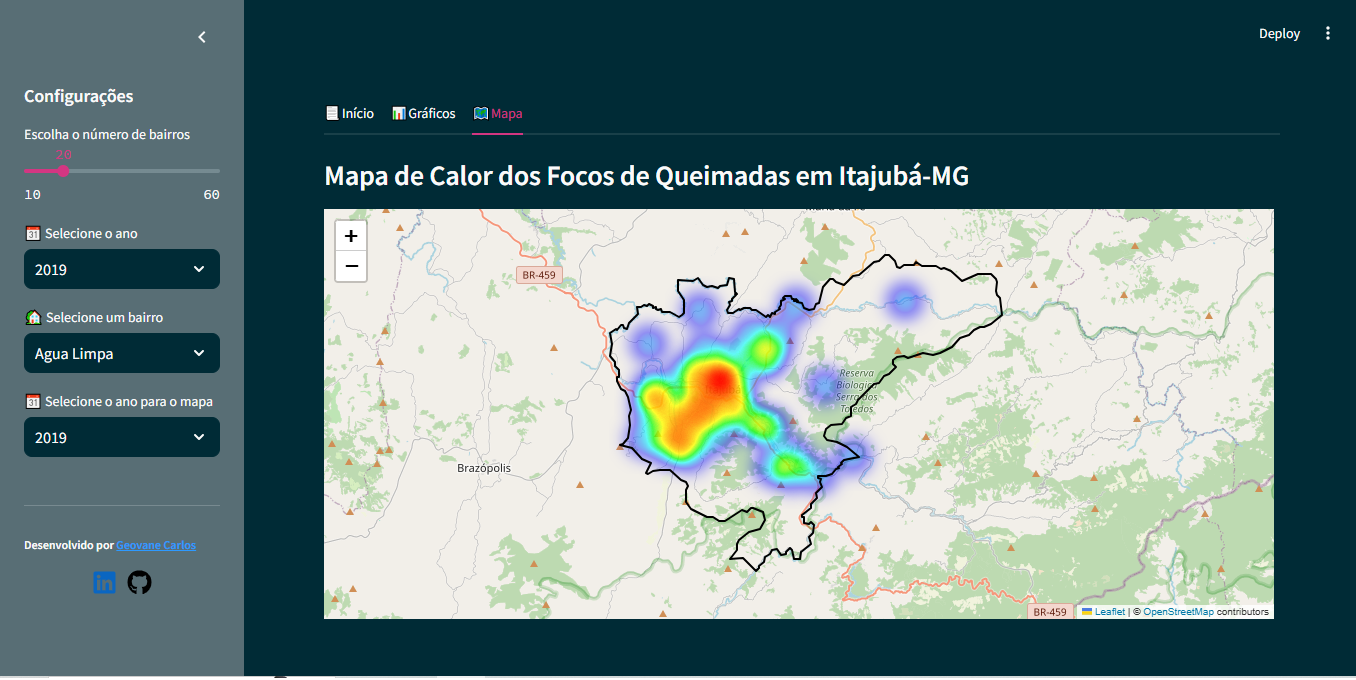
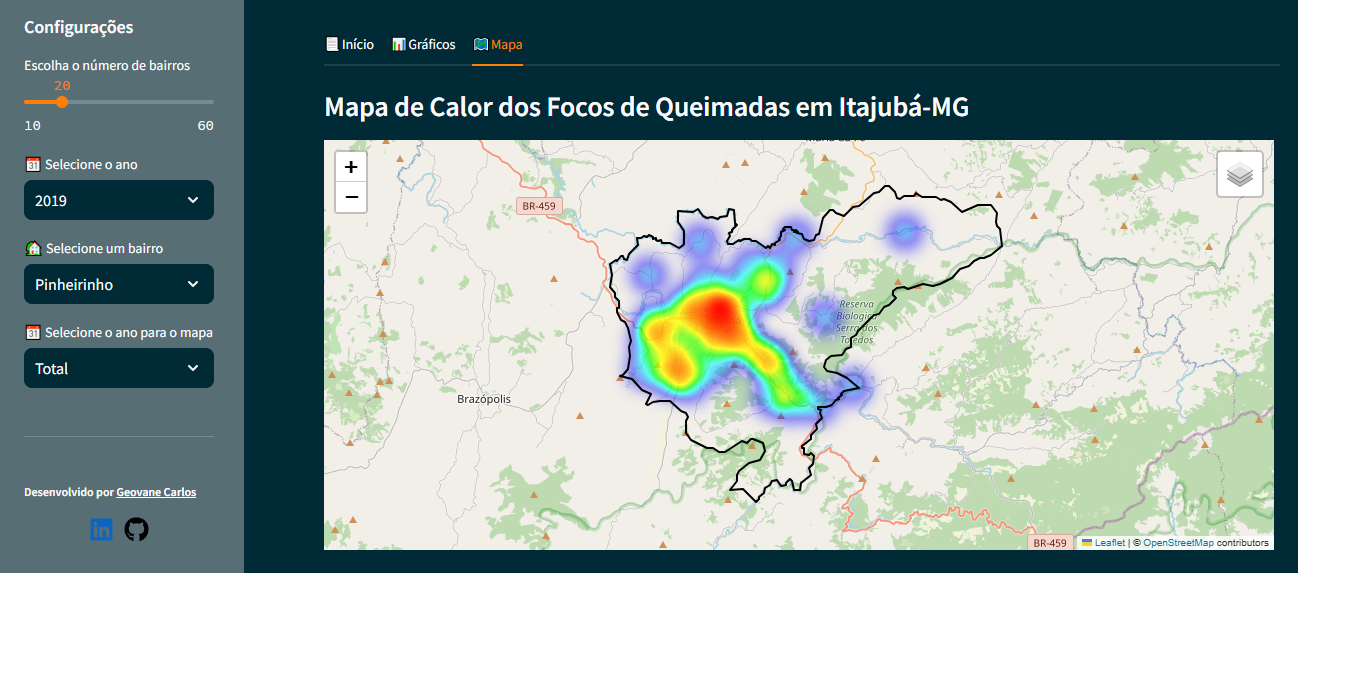
segundo commit

diff --git a/app_queimadas.py b/app_queimadas.py
@@ -99,7 +99,6 @@ df_mensal_anual, df_mensal_total= calcular_sazonalidade_focos(df_queimadas)
 
 #configurações da sidebar
 with st.sidebar:
-    #st.logo("dataset/imagem_fogo.png", size="large")
     st.subheader("Configurações") 
 
 # Função para plotagem do gráficos
@@ -308,13 +307,24 @@ with tab3:
 #configurações da sidebar
 with st.sidebar:
     st.markdown("---")
-    st.markdown('<h6>Desenvolvido por <a href="https://www.linkedin.com/in/geovanecarlos" target="_blank"> Geovane Carlos</a></h6>',
-                
-    unsafe_allow_html=True
+
+    st.markdown(
+        """
+        <style>
+        .custom-text {
+            color: #ffffff;
+            font-size: 14px;
+        }
+        </style>
+        """,
+        unsafe_allow_html=True
     )
-    social_media_links = ["https://www.linkedin.com/in/geovanecarlos",
-                            "https://github.com/geovanecarlos"
-                            ]
+
+    st.markdown(
+        '<h6 class="custom-text">Desenvolvido por <a href="https://www.linkedin.com/in/geovanecarlos" target="_blank" style="color: #ffffff;"> Geovane Carlos</a></h6>',
+        unsafe_allow_html=True
+    )
+
+    social_media_links = ["https://www.linkedin.com/in/geovanecarlos", "https://github.com/geovanecarlos"]
     social_media_icons = SocialMediaIcons(social_media_links)
     social_media_icons.render()
-    
